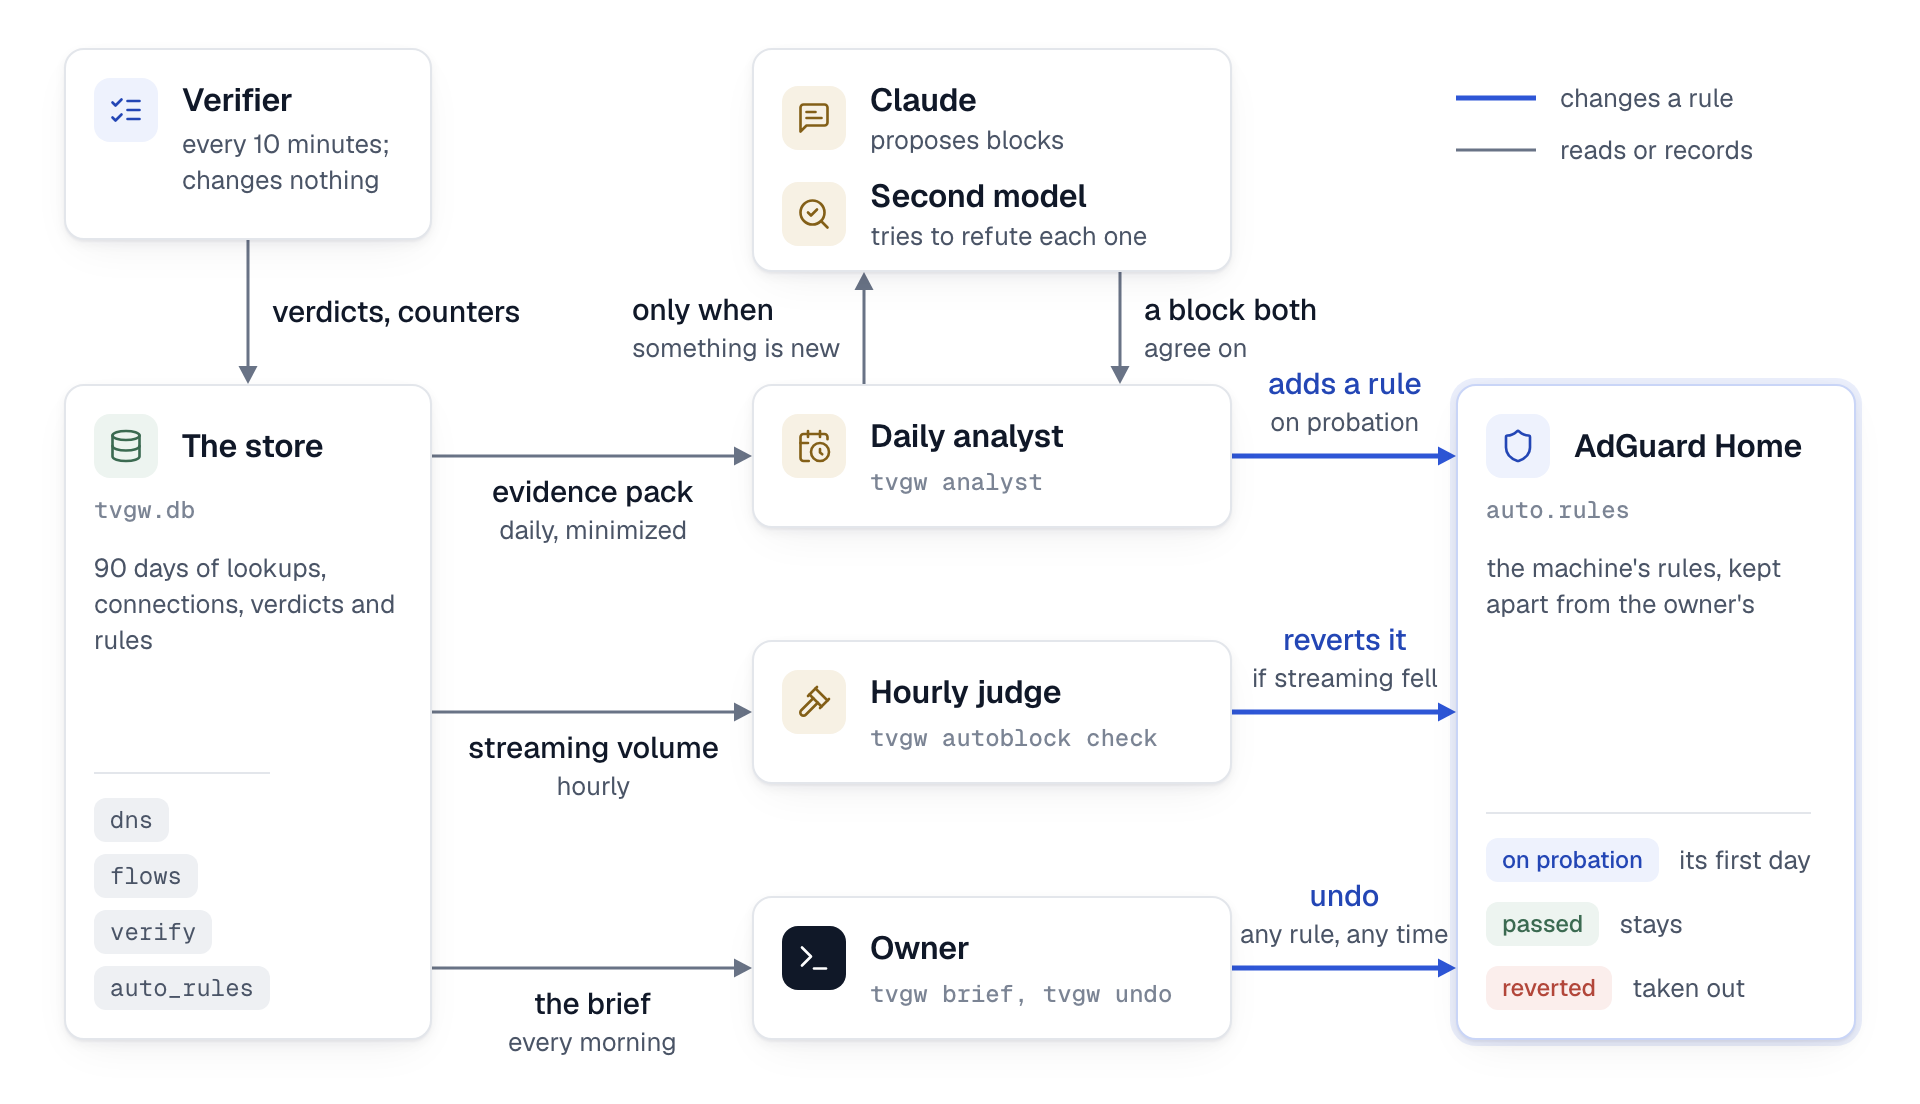
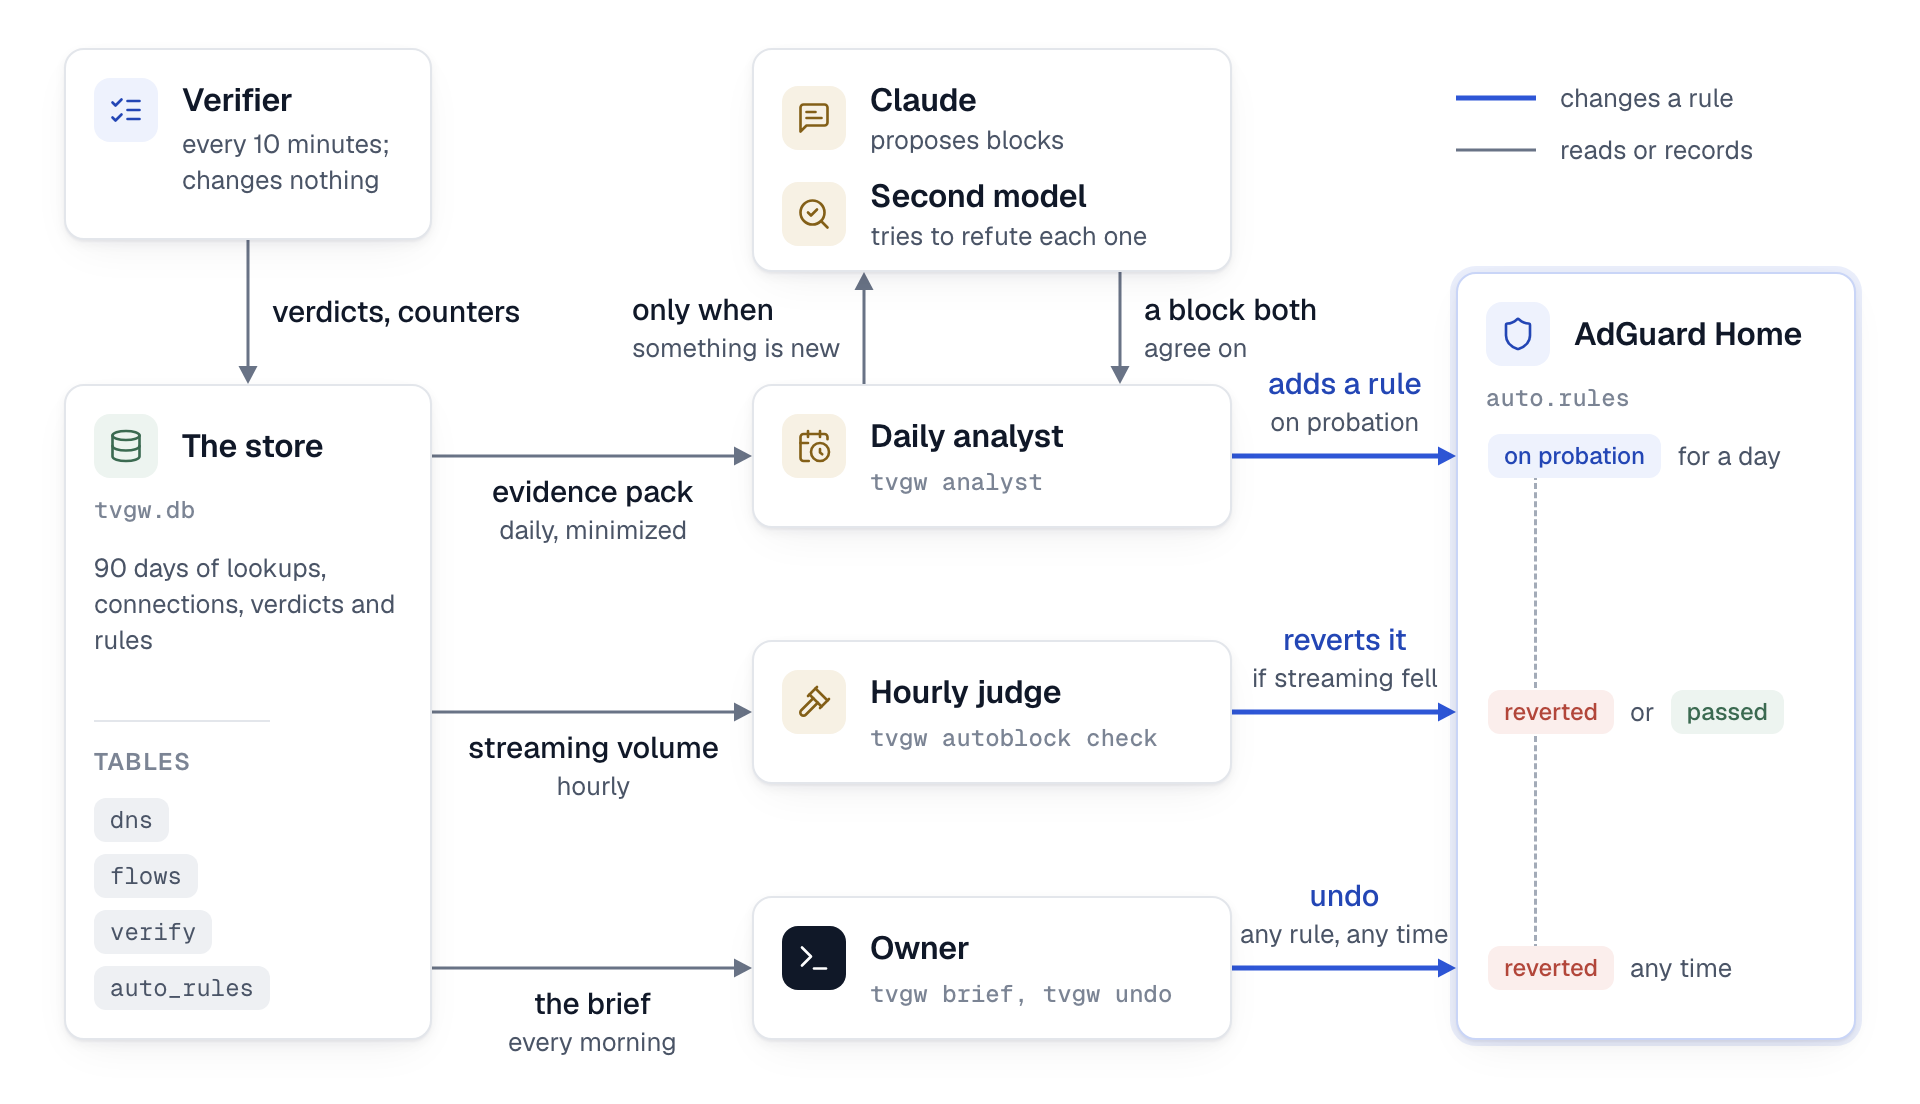
docs: fig-3 rules card shows a rule's life on its incoming wires; store tables headed
Review: the stretched AdGuard Home card left an empty middle. Each writer's wire now lands on
the state it causes (on probation, reverted or passed, reverted), joined by a rail; the store
card's table tags get a heading.

diff --git a/docs/diagrams/fig-3-judgement.html b/docs/diagrams/fig-3-judgement.html
@@ -202,7 +202,7 @@
 .stage > * { position: absolute; box-sizing: border-box; }
 .stage > .art { z-index: 0; }
 .stage > .wires { z-index: 1; }
-.stage > .card, .stage > .brief, .stage > .wire-label, .stage > .art-caption, .stage > .legend, .stage > .note { z-index: 2; }
+.stage > .card, .stage > .brief, .stage > .rail, .stage > .rule-row, .stage > .wire-label, .stage > .art-caption, .stage > .legend, .stage > .note { z-index: 2; }
 .stage .wires { inset: 0; width: 100%; height: 100%; pointer-events: none; overflow: visible; }
 
 .fig-caption {
@@ -285,9 +285,12 @@
 
 /* Lists of tags inside a tall card: the store's tables, the machine's rules by state */
 .tablelist { display: flex; flex-direction: column; align-items: flex-start; gap: 6px; margin-top: auto; padding-top: 12px; border-top: 1px solid var(--border); }
-.rulelist { display: flex; flex-direction: column; gap: 10px; margin-top: auto; padding-top: 12px; border-top: 1px solid var(--border); }
-.rulelist > div { display: flex; align-items: center; gap: 10px; }
-.rulelist .sub { margin: 0; }
+.list-title { font: 600 var(--fs-meta)/16px var(--font-sans); letter-spacing: 0.06em; text-transform: uppercase; color: var(--ink-3); margin-bottom: 4px; }
+
+/* A state row placed on the stage over a tall card, centred on an incoming wire; .rail joins the rows */
+.rule-row { display: flex; align-items: center; gap: 8px; height: 22px; }
+.rule-row .sub { font: 400 var(--fs-sub)/18px var(--font-sans); color: var(--ink-2); }
+.rail { width: 0; border-left: 1.5px dashed var(--wire); }
 
 /* Tags: small status markers ("probation", "daily") */
 .tag {
@@ -651,6 +654,7 @@
       <div class="id" style="margin-top:8px">tvgw.db</div>
       <div class="sub" style="margin-top:12px">90 days of lookups, connections, verdicts and rules</div>
       <div class="tablelist">
+        <div class="list-title">tables</div>
         <span class="tag mono">dns</span><span class="tag mono">flows</span><span class="tag mono">verify</span><span class="tag mono">auto_rules</span>
       </div>
     </div>
@@ -674,16 +678,15 @@
     </div>
 
     <!-- Right: the rules -->
-    <div class="card stack gate focus" data-id="rules" style="left:728px;top:192px;width:200px;height:328px">
+    <div class="card stack gate focus" data-id="rules" style="left:728px;top:136px;width:200px;height:384px">
       <div class="head"><div class="glyph"><svg class="i"><use href="#i-shield"/></svg></div><div class="title">AdGuard Home</div></div>
       <div class="id" style="margin-top:8px">auto.rules</div>
-      <div class="sub" style="margin-top:12px">the machine's rules, kept apart from the owner's</div>
-      <div class="rulelist">
-        <div><span class="tag accent">on probation</span><span class="sub">its first day</span></div>
-        <div><span class="tag obs">passed</span><span class="sub">stays</span></div>
-        <div><span class="tag stop">reverted</span><span class="sub">taken out</span></div>
-      </div>
     </div>
+    <!-- A rule's life, one state per incoming wire (y = 228, 356, 484), on a rail -->
+    <div class="rail" style="left:767px;top:228px;height:256px"></div>
+    <div class="rule-row" style="left:744px;top:217px"><span class="tag accent">on probation</span><span class="sub">for a day</span></div>
+    <div class="rule-row" style="left:744px;top:345px"><span class="tag stop">reverted</span><span class="sub">or</span><span class="tag obs">passed</span></div>
+    <div class="rule-row" style="left:744px;top:473px"><span class="tag stop">reverted</span><span class="sub">any time</span></div>
 
     <div class="legend" style="left:728px;top:40px">
       <div class="legend-row"><svg viewBox="0 0 40 12"><path class="k accent" d="M0 6 H40"/></svg>changes a rule</div>

diff --git a/docs/diagrams/diagram.css b/docs/diagrams/diagram.css
@@ -194,7 +194,7 @@
 .stage > * { position: absolute; box-sizing: border-box; }
 .stage > .art { z-index: 0; }
 .stage > .wires { z-index: 1; }
-.stage > .card, .stage > .brief, .stage > .wire-label, .stage > .art-caption, .stage > .legend, .stage > .note { z-index: 2; }
+.stage > .card, .stage > .brief, .stage > .rail, .stage > .rule-row, .stage > .wire-label, .stage > .art-caption, .stage > .legend, .stage > .note { z-index: 2; }
 .stage .wires { inset: 0; width: 100%; height: 100%; pointer-events: none; overflow: visible; }
 
 .fig-caption {
@@ -277,9 +277,12 @@
 
 /* Lists of tags inside a tall card: the store's tables, the machine's rules by state */
 .tablelist { display: flex; flex-direction: column; align-items: flex-start; gap: 6px; margin-top: auto; padding-top: 12px; border-top: 1px solid var(--border); }
-.rulelist { display: flex; flex-direction: column; gap: 10px; margin-top: auto; padding-top: 12px; border-top: 1px solid var(--border); }
-.rulelist > div { display: flex; align-items: center; gap: 10px; }
-.rulelist .sub { margin: 0; }
+.list-title { font: 600 var(--fs-meta)/16px var(--font-sans); letter-spacing: 0.06em; text-transform: uppercase; color: var(--ink-3); margin-bottom: 4px; }
+
+/* A state row placed on the stage over a tall card, centred on an incoming wire; .rail joins the rows */
+.rule-row { display: flex; align-items: center; gap: 8px; height: 22px; }
+.rule-row .sub { font: 400 var(--fs-sub)/18px var(--font-sans); color: var(--ink-2); }
+.rail { width: 0; border-left: 1.5px dashed var(--wire); }
 
 /* Tags: small status markers ("probation", "daily") */
 .tag {

diff --git a/docs/diagrams/fig-1-gateway.html b/docs/diagrams/fig-1-gateway.html
@@ -202,7 +202,7 @@
 .stage > * { position: absolute; box-sizing: border-box; }
 .stage > .art { z-index: 0; }
 .stage > .wires { z-index: 1; }
-.stage > .card, .stage > .brief, .stage > .wire-label, .stage > .art-caption, .stage > .legend, .stage > .note { z-index: 2; }
+.stage > .card, .stage > .brief, .stage > .rail, .stage > .rule-row, .stage > .wire-label, .stage > .art-caption, .stage > .legend, .stage > .note { z-index: 2; }
 .stage .wires { inset: 0; width: 100%; height: 100%; pointer-events: none; overflow: visible; }
 
 .fig-caption {
@@ -285,9 +285,12 @@
 
 /* Lists of tags inside a tall card: the store's tables, the machine's rules by state */
 .tablelist { display: flex; flex-direction: column; align-items: flex-start; gap: 6px; margin-top: auto; padding-top: 12px; border-top: 1px solid var(--border); }
-.rulelist { display: flex; flex-direction: column; gap: 10px; margin-top: auto; padding-top: 12px; border-top: 1px solid var(--border); }
-.rulelist > div { display: flex; align-items: center; gap: 10px; }
-.rulelist .sub { margin: 0; }
+.list-title { font: 600 var(--fs-meta)/16px var(--font-sans); letter-spacing: 0.06em; text-transform: uppercase; color: var(--ink-3); margin-bottom: 4px; }
+
+/* A state row placed on the stage over a tall card, centred on an incoming wire; .rail joins the rows */
+.rule-row { display: flex; align-items: center; gap: 8px; height: 22px; }
+.rule-row .sub { font: 400 var(--fs-sub)/18px var(--font-sans); color: var(--ink-2); }
+.rail { width: 0; border-left: 1.5px dashed var(--wire); }
 
 /* Tags: small status markers ("probation", "daily") */
 .tag {

diff --git a/docs/diagrams/fig-2-data-path.html b/docs/diagrams/fig-2-data-path.html
@@ -202,7 +202,7 @@
 .stage > * { position: absolute; box-sizing: border-box; }
 .stage > .art { z-index: 0; }
 .stage > .wires { z-index: 1; }
-.stage > .card, .stage > .brief, .stage > .wire-label, .stage > .art-caption, .stage > .legend, .stage > .note { z-index: 2; }
+.stage > .card, .stage > .brief, .stage > .rail, .stage > .rule-row, .stage > .wire-label, .stage > .art-caption, .stage > .legend, .stage > .note { z-index: 2; }
 .stage .wires { inset: 0; width: 100%; height: 100%; pointer-events: none; overflow: visible; }
 
 .fig-caption {
@@ -285,9 +285,12 @@
 
 /* Lists of tags inside a tall card: the store's tables, the machine's rules by state */
 .tablelist { display: flex; flex-direction: column; align-items: flex-start; gap: 6px; margin-top: auto; padding-top: 12px; border-top: 1px solid var(--border); }
-.rulelist { display: flex; flex-direction: column; gap: 10px; margin-top: auto; padding-top: 12px; border-top: 1px solid var(--border); }
-.rulelist > div { display: flex; align-items: center; gap: 10px; }
-.rulelist .sub { margin: 0; }
+.list-title { font: 600 var(--fs-meta)/16px var(--font-sans); letter-spacing: 0.06em; text-transform: uppercase; color: var(--ink-3); margin-bottom: 4px; }
+
+/* A state row placed on the stage over a tall card, centred on an incoming wire; .rail joins the rows */
+.rule-row { display: flex; align-items: center; gap: 8px; height: 22px; }
+.rule-row .sub { font: 400 var(--fs-sub)/18px var(--font-sans); color: var(--ink-2); }
+.rail { width: 0; border-left: 1.5px dashed var(--wire); }
 
 /* Tags: small status markers ("probation", "daily") */
 .tag {
